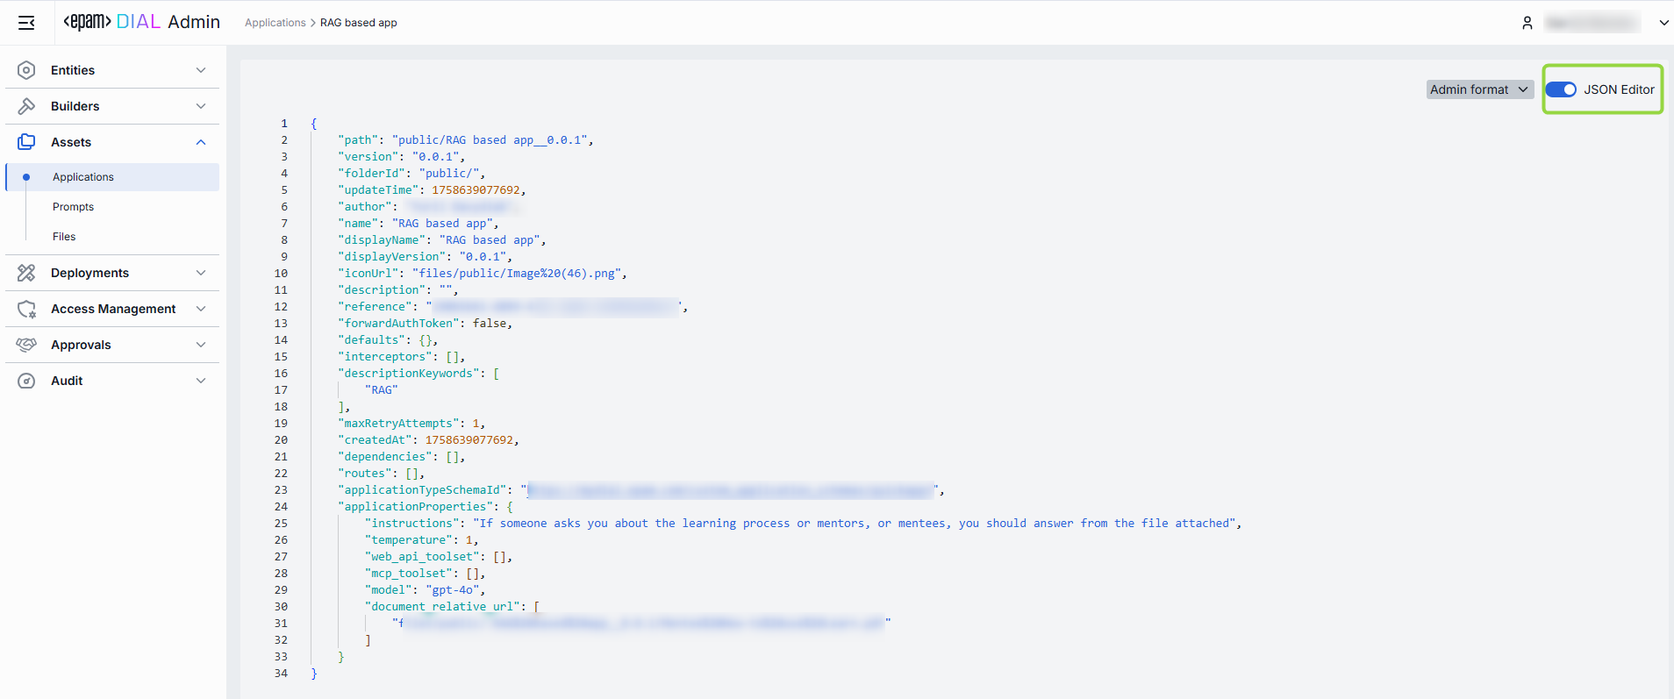
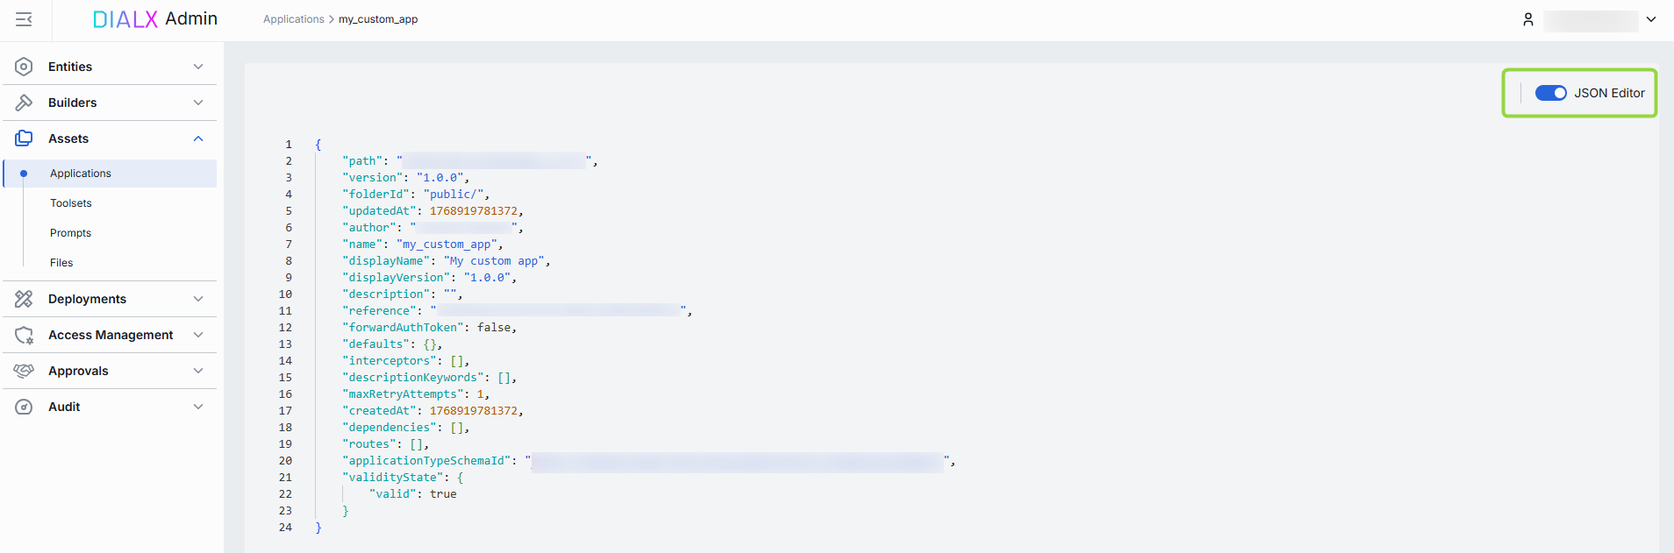
review json editor instructions

diff --git a/docs/tutorials/3.admin/assets-applications.md b/docs/tutorials/3.admin/assets-applications.md
@@ -18,12 +18,11 @@ Applications, when added via DIAL Core configuration files or published by users
 
 Objects in the [Public space](/docs/platform/3.core/2.access-control-intro.md) are arranged hierarchically, similar to a file system. In this part of the screen, you can see the hierarchical structure of folders in the Public space. 
 
-
-| Element | Description          |
-|------------------------|--------------------------------------------|
-| **Root folder**        | A root folder. Contains the sub-folders and applications. It is visible to all users. Applications when added via the DIAL Core configuration file, are automatically placed in the root folder.   |
-| **Sub-folders**        | Applications can be placed in a specific sub-folder for logical organization purposes.          |
-| **Actions**    | Hover over any folder to view a context menu icon with actions you can perform in relation to the selected folder.<br /> - **Rename**: Use to rename the selected folder.<br />- **Move to**: Use to select a target location in the hierarchy to move the selected folder.<br />- **Manage permissions**: Redirects to [Folder Storage](/docs/tutorials/3.admin/access-management-folders-storage.md) to manage access to the folder.<br />- **Delete**: Use to delete the folder with applications inside it.|
+| Element | Description |
+|---------|-------------|
+| **Root folder** | A root folder. Contains the sub-folders and applications. It is visible to all users. Applications when added via the DIAL Core configuration file, are automatically placed in the root folder. |
+| **Sub-folders** | Applications can be placed in a specific sub-folder for logical organization purposes. |
+| **Actions** | Hover over any folder to view a context menu icon with actions you can perform in relation to the selected folder.<br /> - **Rename**: Use to rename the selected folder.<br />- **Move to**: Use to select a target location in the hierarchy to move the selected folder.<br />- **Manage permissions**: Redirects to [Folder Storage](/docs/tutorials/3.admin/access-management-folders-storage.md) to manage access to the folder.<br />- **Delete**: Use to delete the folder with applications inside it.|
 
 ![ ](img/122.png)
 
@@ -31,13 +30,13 @@ Objects in the [Public space](/docs/platform/3.core/2.access-control-intro.md) a
 
 Click on any folder to display applications in the applications grid.
 
-| Column           | Definition                    |
-|------------------|----------------------------|
-| **Display Name** | Along with the version, it makes up the application’s unique key.      |
-| **Version**      | Version of the application.              |
-| **Author**       | The username or system ID associated with the user who created or last updated this application.     |
-| **Updated time** | The timestamp of the last modification of the application. Use to track changes.                     |
-| **Actions**      | Actions you can perform on the selected application: <br /> - **Open in new tab**: Opens a new tab with application's properties, features and parameters.  <br /> - **Move to another folder**: Use to select the target folder in the hierarchy to move the application.<br />- **Delete**: Use to delete the application. Alternatively you can use **Bulk Actions** in the header to remove multiple applications. |
+| Column | Description |
+|--------|-------------|
+| **Display Name** | Name of the application displayed on UI. |
+| **Version** | Version of the application. |
+| **Author** | Username or system ID associated with the user who created or last updated this application. |
+| **Updated time** | Timestamp of the last modification of the application. Use to track changes. |
+| **Actions** | Actions you can perform on the selected application: <br /> - **Open in new tab**: Opens a new tab with application's properties, features and parameters. <br /> - **Move to another folder**: Use to select the target folder in the hierarchy to move the application.<br />- **Delete**: Use to delete the application. Alternatively you can use **Bulk Actions** in the header to remove multiple applications. |
 
 ## Export
 
@@ -89,15 +88,15 @@ Follow these steps to add a new application:
 1. Select a folder where you want to add a new application and click **+ Create** to invoke the **Create Application** modal.
 2. Define application's parameters
 
-    | Field                    | Required    | Definition & Guidance|
-    |--------------------------|-------------|----------------------|
-    | **ID**                   | Yes         | A unique identifier under the `applications` section of DIAL Core’s [dynamic settings](https://github.com/epam/ai-dial-core?tab=readme-ov-file#dynamic-settings) (e.g. support-bot, data-cluster).   |
-    | **Display Name**         | Yes         | A user-friendly label (e.g. "Customer Support Bot") shown throughout the Admin UI.     |
-    | **Version**              | Yes         | Semantic identifier (e.g., 1.2.0) of an application's version.   |
-    | **Description**          | No          | A free-text summary describing the application (e.g. supported inputs, business purpose). |
-    | **Source Type**          | Yes         | Source type of application.<br />- **Endpoints**: Application with this source type is a standalone application. DIAL Core communicates with such application via the explicitly-provided chat completion endpoint.<br />- **Application runner**: Application runners can be seen as application factories, allowing users to create logical instances of apps with different configurations. Application runners are based on JSON schemas, which define structure, properties and endpoints for applications. In [Builders/Application Runners](/docs/tutorials/3.admin/builders-application-runners.md) you can see all the available runners and add new ones.|
-    | **Endpoint**             | Conditional | The application’s chat completion endpoint that will be used by DIAL Core. Required if Source Type is **Endpoints**.        |
-    | **Application runner**   | Conditional | Select one of the [available application runners](/docs/tutorials/3.admin/builders-application-runners.md). Required if Source Type is **Application runner**. |
+    | Field | Required | Description |
+    |-------|----------|-------------|
+    | **ID** | Yes | Unique identifier under the `applications` section of DIAL Core's [dynamic settings](https://github.com/epam/ai-dial-core?tab=readme-ov-file#dynamic-settings) (e.g. support-bot, data-cluster). |
+    | **Display Name** | Yes | Application label (e.g. "Customer Support Bot") shown throughout the Admin UI. |
+    | **Version** | Yes | Semantic identifier (e.g., 1.2.0) of an application's version. |
+    | **Description** | No | Free-text summary describing the application (e.g. supported inputs, business purpose). |
+    | **Source Type** | Yes | Source type of application.<br />- **Endpoints**: Application with this source type is a standalone application. DIAL Core communicates with such application via the explicitly-provided chat completion endpoint.<br />- **Application runner**: Application runners can be seen as application factories, allowing users to create logical instances of apps with different configurations. Application runners are based on JSON schemas, which define structure, properties and endpoints for applications. In [Builders/Application Runners](/docs/tutorials/3.admin/builders-application-runners.md) you can see all the available runners and add new ones.|
+    | **Endpoint** | Conditional | The application's chat completion endpoint that will be used by DIAL Core. Required if Source Type is **Endpoints**. |
+    | **Application runner** | Conditional | Select one of the [available application runners](/docs/tutorials/3.admin/builders-application-runners.md). Required if Source Type is **Application runner**. |
 
 3. Once all required fields are filled click **Create**. The dialog closes and the new [application configuration](#configuration-screen) screen is opened. This entry will appear immediately in the listing under the selected folder once created.
 
@@ -124,29 +123,29 @@ You can find the following action buttons in the configuration screen header:
 
 ##### Fields Description
 
-| Field    | Description |
-|----------|--------------------------|
-| **ID**      | A unique identifier of the application. |
-| **Author**  | The username or system ID associated with the user who created or last updated this application.      |
-| **Creation Time** | The timestamp of when the application was created.   |
-| **Updated Time** | Date and time when the app's configuration was last updated.             |
-| **Folder Storage**  | The path to the application's location in the hierarchy of folders. It allows you to move the application between folders.| 
+| Field | Description |
+|-------|-------------|
+| **ID** | Unique identifier of the application. |
+| **Author** | Username or system ID associated with the user who created or last updated this application. |
+| **Creation Time** | Timestamp of when the application was created. |
+| **Updated Time** | Date and time when the app's configuration was last updated. |
+| **Folder Storage** | Path to the application's location in the hierarchy of folders. It allows you to move the application between folders.|
 | **Status** | Current status of the application:<br />**Valid**: application configuration is compatible with the JSON schema or the related application runner.<br />Only valid entities will be materialized into the DIAL Core configuration.<br />**Invalid**: application configuration is incompatible with the JSON schema of the related application runner. |
-| **Display Name**  | The name of the application assigned by the author. It is read-only but includes a copy-to-clipboard button for easy reference.    |
-| **Description**   | A free-text summary describing the application (e.g. tooling, supported inputs/outputs, SLAs).  |
-| **Icon**  | A logo to visually distinguish the app on the UI. Maximum size: 512 MB. Supported types: .jpeg, .jpg, .jpe, .png, .gif, .apng, .webp, .avif, .svg, .svgz, .bmp, .ico. Up to 1 files.|
-| **Topics**  | Tags that you can assign to apps (e.g. "finance", "support"). Helps to assign categories for better navigation on UI.  |
-| **Folder Storage**  | The path to the application's location in the hierarchy of folders. It allows you to move the application between folders.| 
-| **Source Type**     | Source type of application.<br />- **Endpoints**: Application with this source type is a standalone application. DIAL Core communicates with such application via the explicitly-provided endpoints.<br />- **Application runner**: Application runners can be seen as application factories, allowing users to create logical instances of apps with different configurations. Application runners are based on JSON schemas, which define structure, properties and endpoints for applications. In [Builders/Application Runners](/docs/tutorials/3.admin/builders-application-runners.md) you can see all the available runners and add new ones.|
-| **Application runner**   | [Application Runner](/docs/tutorials/3.admin/builders-application-runners.md) the application is based upon. Enabled and is required if Source Type = Application runner is selected. |
-| **Completion endpoint** | The application’s chat completion endpoint that will be used by DIAL Core. Enabled and is required if Source Type = Endpoints is selected. |
+| **Display Name** | Name of the application assigned by the author. It is read-only but includes a copy-to-clipboard button for easy reference. |
+| **Description** | Free-text summary describing the application (e.g. tooling, supported inputs/outputs, SLAs). |
+| **Icon** | Logo to visually distinguish the app on the UI. Maximum size: 512 MB. Supported types: .jpeg, .jpg, .jpe, .png, .gif, .apng, .webp, .avif, .svg, .svgz, .bmp, .ico. Up to 1 files.|
+| **Topics** | Tags that you can assign to apps (e.g. "finance", "support"). Helps to assign categories for better navigation on UI. |
+| **Folder Storage** | Path to the application's location in the hierarchy of folders. It allows you to move the application between folders.|
+| **Source Type** | Source type of application.<br />- **Endpoints**: Application with this source type is a standalone application. DIAL Core communicates with such application via the explicitly-provided endpoints.<br />- **Application runner**: Application runners can be seen as application factories, allowing users to create logical instances of apps with different configurations. Application runners are based on JSON schemas, which define structure, properties and endpoints for applications. In [Builders/Application Runners](/docs/tutorials/3.admin/builders-application-runners.md) you can see all the available runners and add new ones.|
+| **Application runner** | [Application Runner](/docs/tutorials/3.admin/builders-application-runners.md) the application is based upon. Enabled and is required if Source Type = Application runner is selected. |
+| **Completion endpoint** | The application's chat completion endpoint that will be used by DIAL Core. Enabled and is required if Source Type = Endpoints is selected. |
 | **Editor URL** | URL of the application's custom builder UI. Application builder allows creating instances of apps using a [UI wizard](/docs/tutorials/0.user-guide.md#application-builder). Enabled if Source Type = Endpoints is selected. |
 | **Viewer URL** | URL of the application's custom UI. A custom UI, if enabled, will override the standard DIAL Chat UI. Enabled if Source Type = Endpoints is selected. |
-| **Attachments** | An option you can use to define the [attachment types](/docs/tutorials/1.developers/3.chat/0.chat-objects.md#attachments) (images, files) this app can have:  <br />**Available values**:<br /> **None** – attachments are not allowed.  <br /> **Use all** – unrestricted types. Optionally specify max number of attachments. <br /> **Custom** – enter specific [MIME types](https://developer.mozilla.org/en-US/docs/Web/HTTP/Basics_of_HTTP/MIME_types/Common_types). Optionally specify max number of attachments. |
-| **Attachments max number**  | Maximum number of input attachments. Enabled if attachment types are defined. |
+| **Attachments** | [Attachment types](/docs/tutorials/1.developers/3.chat/0.chat-objects.md#attachments) (images, files) this app can have: <br />**Available values**:<br /> **None** – attachments are not allowed. <br /> **Use all** – unrestricted types. Optionally specify max number of attachments. <br /> **Custom** – enter specific [MIME types](https://developer.mozilla.org/en-US/docs/Web/HTTP/Basics_of_HTTP/MIME_types/Common_types). Optionally specify max number of attachments. |
+| **Attachments max number** | Maximum number of input attachments. Enabled if attachment types are defined. |
 | **Defaults** | Default parameters for the application. Default parameters are applied if a request doesn't contain them in OpenAI chat/completions API call. |
-| **Forward auth token** | Select a downstream auth token to forward from the user’s session (for multi-tenant downstream). |
-| **Max retry attempts**  | Number of times DIAL Core will [retry](/docs/platform/3.core/5.load-balancer.md#fallbacks) a failed run (due to timeouts or 5xx errors). |
+| **Forward auth token** | Select a downstream auth token to forward from the user's session (for multi-tenant downstream). |
+| **Max retry attempts** | Number of times DIAL Core will [retry](/docs/platform/3.core/5.load-balancer.md#fallbacks) a failed run (due to timeouts or 5xx errors). |
 
 ### Features
 
@@ -160,31 +159,31 @@ Use these fields to apply optional service endpoints that extend the app’s run
 By providing URLs for rating, tokenization, prompt truncation, and dynamic configuration, the application can delegate cost/quota calculations, precise token counting, context-window management, and JSON-schema–driven settings to external services.
 Endpoints specified here override endpoints in [Application Runner](/docs/tutorials/3.admin/builders-application-runners.md#properties).
 
-| Field         | Description    |
-|------------------------------|-----------------------------------------------|
-| **Rate endpoint**            | A URL to call a custom rate-estimation API. Use this to compute cost or quota usage based on your own logic (e.g. grouping by tenant, complex billing rules).   |
-| **Tokenize endpoint**        | A URL to call a custom tokenization service. When you need precise, app-wide token counting (for mixed-model or multi-step prompts) that the model adapter can’t provide.   |
+| Field | Description |
+|-------|-------------|
+| **Rate endpoint** | A URL to call a custom rate-estimation API. Use this to compute cost or quota usage based on your own logic (e.g. grouping by tenant, complex billing rules). |
+| **Tokenize endpoint** | A URL to call a custom tokenization service. When you need precise, app-wide token counting (for mixed-model or multi-step prompts) that the model adapter can't provide. |
 | **Truncate prompt endpoint** | A URL to call your own prompt-truncation API. Handy if you implement advanced context-window management (e.g. dynamic summarization) before the actual app call. |
-| **Configuration endpoint**   | A URL to fetch JSON Schema describing settings of the DIAL application. DIAL Core exposes this endpoint to DIAL clients as `GET v1/deployments/<deployment name>/configuration`. DIAL client must provide a JSON value corresponding to the configuration JSON Schema in a chat completion request in the `custom_fields.configuration` field.  |
+| **Configuration endpoint** | A URL to fetch JSON Schema describing settings of the DIAL application. DIAL Core exposes this endpoint to DIAL clients as `GET v1/deployments/<deployment name>/configuration`. DIAL client must provide a JSON value corresponding to the configuration JSON Schema in a chat completion request in the `custom_fields.configuration` field. |
 
 #### Feature Flags (Toggles)
 
 Enable or disable per-request options that your application accepts from clients and forwards to the underlying models. **Toggle On/Off** any feature as needed.
 
-| Toggle         | What It Does            |
-|-------------------------------|-----------------------------------------------------------------------------|
-| **System prompt**             | Enables an initial "system" message injection. Useful for orchestrating multi-step agents where you need to enforce a global policy at the application level. |
-| **Tools**      | Enables `tools`/`functions` payloads in API calls. Switch on if your application makes external function calls (e.g. calendar lookup, database fetch).        |
-| **Seed**       | Enables the `seed` parameter for reproducible results. Great for testing or deterministic pipelines.  Disable to ensure randomized creativity. |
-| **URL Attachments**           | Enables URL references (images, docs) as attachments in API requests. Must be enabled if your workflow downloads or processes remote assets via URLs.         |
-| **Folder Attachments**        | Enables attachments of folders (batching multiple files).    |
+| Toggle | Description |
+|--------|-------------|
+| **System prompt** | Enables an initial "system" message injection. Useful for orchestrating multi-step agents where you need to enforce a global policy at the application level. |
+| **Tools** | Enables `tools`/`functions` payloads in API calls. Switch on if your application makes external function calls (e.g. calendar lookup, database fetch). |
+| **Seed** | Enables the `seed` parameter for reproducible results. Great for testing or deterministic pipelines. Disable to ensure randomized creativity. |
+| **URL Attachments** | Enables URL references (images, docs) as attachments in API requests. Must be enabled if your workflow downloads or processes remote assets via URLs. |
+| **Folder Attachments** | Enables attachments of folders (batching multiple files). |
 | **Accessible by request key** | Indicates whether the deployment is accessible using a [per-request API key](/docs/platform/3.core/3.per-request-keys.md). |
-| **Content parts**             | Indicates whether the deployment supports requests with content parts or not.  |
-| **Consent required**          | Indicates whether the application requires [user consent](https://dialx.ai/dial_api#tag/User-Consent) before use.     |
+| **Content parts** | Indicates whether the deployment supports requests with content parts or not. |
+| **Consent required** | Indicates whether the application requires [user consent](https://dialx.ai/dial_api#tag/User-Consent) before use. |
 
 ### JSON Editor
 
-**Advanced users with technical expertise** can work with the application properties in a JSON editor view mode. It is useful for advanced scenarios of bulk updates, copy/paste between environments, or tweaking settings not exposed in the form UI.
+**Advanced users with technical expertise** can work with the application properties in a JSON editor view mode. It is useful for advanced scenarios of bulk updates, copy/paste between environments, or tweaking settings not exposed on UI.
 
 > **TIP**: You can switch between UI and JSON only if there are no unsaved changes.
 

diff --git a/docs/tutorials/3.admin/entities-toolsets.md b/docs/tutorials/3.admin/entities-toolsets.md
@@ -195,20 +195,21 @@ Use Resource Rollback to restore the previous version of the selected activity. 
 
 ### JSON Editor
 
-**Advanced users with technical expertise** can work with the toolset properties in a JSON editor view mode. It is useful for advanced scenarios of bulk updates, copy/paste between environments, or tweaking settings not exposed in the form UI.
+**Advanced users with technical expertise** can work with the toolset properties in a JSON editor view mode. It is useful for advanced scenarios of bulk updates, copy/paste between environments, or tweaking settings not exposed on UI.
 
 > **TIP**: You can switch between UI and JSON only if there are no unsaved changes.
 
-You can also use the JSON editor to preview and edit deployment properties as they are defined in Admin service and DIAL Core formats. **Sync with core** indicator will inform you about the synchronization state when any changes are made.
+In JSON editor, you can use the view dropdown to select between Admin format and Core format. Note, that these formatting options are for your convenience only and do not render properties as they are defined in DIAL Core. After making changes, the **Sync with core** indicator on the main configuration screen will inform you about the synchronization state with DIAL Core.
 
-![ ](img/118.png)
+![ ](img/entities_tools_json.png)
 
-##### Switching to the JSON Editor
+##### Working with JSON Editor
 
 1. Navigate to **Entities → Toolsets**, then select the toolset you want to edit.
 2. Click the **JSON Editor** toggle (top-right). The UI reveals the raw JSON.
-3. Chose between the Admin and Core format to see the configuration details as stored in DIAL Admin or DIAL Core. **Note**: click **Sync with core** in the **Properties** tab to compare them side-by-side in a read-only JSON Viewer.
+3. Chose between the Admin and Core format to see and work with properties in the necessary format. **Note**: Core format view mode does not render the actual configuration stored in DIAL Core but the configuration in Admin service displayed in the DIAL Core format.
 4. Make changes and click **Save** to apply them.
+5. After making changes, the **Sync with core** indicator on the main configuration screen will inform you about the synchronization state with DIAL Core.
 
 ### Delete
 

diff --git a/docs/tutorials/3.admin/entities-applications.md b/docs/tutorials/3.admin/entities-applications.md
@@ -472,18 +472,21 @@ Use Resource Rollback to restore the previous version of the selected activity. 
 
 ### JSON Editor
 
-**Advanced users with technical expertise** can work with the application properties in a JSON editor view mode. It is useful for advanced scenarios of bulk updates, copy/paste between environments, or tweaking settings not exposed in the form UI.
+**Advanced users with technical expertise** can work with the application properties in a JSON editor view mode. It is useful for advanced scenarios of bulk updates, copy/paste between environments, or tweaking settings not exposed on UI.
 
 > **TIP**: You can switch between UI and JSON only if there are no unsaved changes.
 
-You can also use the JSON editor to preview and edit deployment properties as they are defined in Admin service and DIAL Core formats. **Sync with core** indicator will inform you about the synchronization state when any changes are made.
+In JSON editor, you can use the view dropdown to select between Admin format and Core format. Note, that these formatting options are for your convenience only and do not render properties as they are defined in DIAL Core. After making changes, the **Sync with core** indicator on the main configuration screen will inform you about the synchronization state with DIAL Core.
 
 ![](img/entities_apps_json_editor.png)
 
-##### Switching to the JSON Editor
+##### Working with JSON Editor
 
 1. Navigate to **Entities → Applications**, then select the application you want to edit.
 2. Click the **JSON Editor** toggle (top-right). The UI reveals the raw JSON.
+3. Chose between the Admin and Core format to see and work with properties in the necessary format. **Note**: Core format view mode does not render the actual configuration stored in DIAL Core but the configuration in Admin service displayed in the DIAL Core format.
+4. Make changes and click **Save** to apply them.
+5. After making changes, the **Sync with core** indicator on the main configuration screen will inform you about the synchronization state with DIAL Core.
 
 ### Delete
 

diff --git a/docs/tutorials/3.admin/entities-models.md b/docs/tutorials/3.admin/entities-models.md
@@ -483,18 +483,21 @@ Use Resource Rollback to restore the previous version of the selected activity. 
 
 ### JSON Editor
 
-**Advanced users with technical expertise** can work with the model properties in a JSON editor view mode. It is useful for advanced scenarios of bulk updates, copy/paste between environments, or tweaking settings not exposed in the form UI.
+**Advanced users with technical expertise** can work with the model properties in a JSON editor view mode. It is useful for advanced scenarios of bulk updates, copy/paste between environments, or tweaking settings not exposed on UI.
 
 > **TIP**: You can switch between UI and JSON only if there are no unsaved changes.
 
-You can also use the JSON editor to preview and edit deployment properties as they are defined in Admin service and DIAL Core formats. **Sync with core** indicator will inform you about the synchronization state when any changes are made.
+In JSON editor, you can use the view dropdown to select between Admin format and Core format. Note, that these formatting options are for your convenience only and do not render properties as they are defined in DIAL Core. After making changes, the **Sync with core** indicator on the main configuration screen will inform you about the synchronization state with DIAL Core.
 
 ![ ](img/entities_models_properties_json.png)
 
-##### Switching to the JSON Editor
+##### Working with JSON Editor
 
 1. Navigate to **Entities → Models**, then select the model you want to edit.
 2. Click the **JSON Editor** toggle (top-right). The UI reveals the raw JSON.
+3. Chose between the Admin and Core format to see and work with properties in the necessary format. **Note**: Core format view mode does not render the actual configuration stored in DIAL Core but the configuration in Admin service displayed in the DIAL Core format.
+4. Make changes and click **Save** to apply them.
+5. After making changes, the **Sync with core** indicator on the main configuration screen will inform you about the synchronization state with DIAL Core.
 
 ### Delete
 

diff --git a/docs/tutorials/3.admin/builders-application-runners.md b/docs/tutorials/3.admin/builders-application-runners.md
@@ -205,13 +205,18 @@ The Activities section provides detailed visibility into all changes made to the
 
 ### JSON Editor
 
-**Advanced users with technical expertise** can work with the application runner properties in a JSON editor view mode. It is useful for advanced scenarios of bulk updates, copy/paste between environments, or tweaking settings not exposed in the form UI.
+**Advanced users with technical expertise** can work with the application runner properties in a JSON editor view mode. It is useful for advanced scenarios of bulk updates, copy/paste between environments, or tweaking settings not exposed on UI.
 
 > **TIP**: You can switch between UI and JSON only if there are no unsaved changes.
 
-![](img/70.png)
+In JSON editor, you can use the view dropdown to select between Admin format and Core format. Note, that these formatting options are for your convenience only and do not render properties as they are defined in DIAL Core. After making changes, the **Sync with core** indicator on the main configuration screen will inform you about the synchronization state with DIAL Core.
 
-##### Switching to the JSON Editor
+![](img/app_runner_json.png)
+
+##### Working with JSON Editor
 
 1. Navigate to **Builders → Application Runners**, then select the application runner you want to edit.
 2. Click the **JSON Editor** toggle (top-right). The UI reveals the raw JSON.
+3. Chose between the Admin and Core format to see and work with properties in the necessary format. **Note**: Core format view mode does not render the actual configuration stored in DIAL Core but the configuration in Admin service displayed in the DIAL Core format.
+4. Make changes and click **Save** to apply them.
+5. After making changes, the **Sync with core** indicator on the main configuration screen will inform you about the synchronization state with DIAL Core.

diff --git a/docs/tutorials/3.admin/access-management-roles.md b/docs/tutorials/3.admin/access-management-roles.md
@@ -174,16 +174,21 @@ To open Activity Details, click on the three-dot menu (⋮) at the end of a row 
 
 ### JSON Editor
 
-**Advanced users with technical expertise** can work with the roles properties in a JSON editor view mode. It is useful for advanced scenarios of bulk updates, copy/paste between environments, or tweaking settings not exposed in the form UI.
+**Advanced users with technical expertise** can work with the roles properties in a JSON editor view mode. It is useful for advanced scenarios of bulk updates, copy/paste between environments, or tweaking settings not exposed on UI.
 
 > **TIP**: You can switch between UI and JSON only if there are no unsaved changes.
 
-![](img/74.png)
+![](img/roles_json.png)
 
-##### Switching to the JSON Editor
+In JSON editor, you can use the view dropdown to select between Admin format and Core format. Note, that these formatting options are for your convenience only and do not render properties as they are defined in DIAL Core. After making changes, the **Sync with core** indicator on the main configuration screen will inform you about the synchronization state with DIAL Core.
+
+##### Working with JSON Editor
 
 1. Navigate to **Access Management → Roles**, then select the role you want to edit.
 2. Click the **JSON Editor** toggle (top-right). The UI reveals the raw JSON.
+3. Chose between the Admin and Core format to see and work with properties in the necessary format. **Note**: Core format view mode does not render the actual configuration stored in DIAL Core but the configuration in Admin service displayed in the DIAL Core format.
+4. Make changes and click **Save** to apply them.
+5. After making changes, the **Sync with core** indicator on the main configuration screen will inform you about the synchronization state with DIAL Core.
 
 ## Delete
 

diff --git a/docs/tutorials/3.admin/access-management-keys.md b/docs/tutorials/3.admin/access-management-keys.md
@@ -123,16 +123,21 @@ Use to stop associating API keys with roles.
 
 ### JSON Editor
 
-**Advanced users with technical expertise** can work with the keys properties in a JSON editor view mode. It is useful for advanced scenarios of bulk updates, copy/paste between environments, or tweaking settings not exposed in the form UI.
+**Advanced users with technical expertise** can work with the keys properties in a JSON editor view mode. It is useful for advanced scenarios of bulk updates, copy/paste between environments, or tweaking settings not exposed on UI.
 
 > **TIP**: You can switch between UI and JSON only if there are no unsaved changes.
 
-![](img/75.png)
+![](img/keys_json.png)
 
-##### Switching to the JSON Editor
+In JSON editor, you can use the view dropdown to select between Admin format and Core format. Note, that these formatting options are for your convenience only and do not render properties as they are defined in DIAL Core. After making changes, the **Sync with core** indicator on the main configuration screen will inform you about the synchronization state with DIAL Core.
+
+##### Working with JSON Editor
 
 1. Navigate to **Access Management → Keys**, then select the key you want to edit.
 2. Click the **JSON Editor** toggle (top-right). The UI reveals the raw JSON.
+3. Chose between the Admin and Core format to see and work with properties in the necessary format. **Note**: Core format view mode does not render the actual configuration stored in DIAL Core but the configuration in Admin service displayed in the DIAL Core format.
+4. Make changes and click **Save** to apply them.
+5. After making changes, the **Sync with core** indicator on the main configuration screen will inform you about the synchronization state with DIAL Core.
 
 ## Delete
 

diff --git a/docs/tutorials/3.admin/entities-interceptors.md b/docs/tutorials/3.admin/entities-interceptors.md
@@ -161,16 +161,19 @@ To open Activity Details, click on the three-dot menu (⋮) at the end of a row 
 
 ### JSON Editor
 
-**Advanced users with technical expertise** can work with the interceptor properties in a JSON editor view mode. It is useful for advanced scenarios of bulk updates, copy/paste between environments, or tweaking settings not exposed in the form UI.
+**Advanced users with technical expertise** can work with the interceptor properties in a JSON editor view mode. It is useful for advanced scenarios of bulk updates, copy/paste between environments, or tweaking settings not exposed on UI.
 
 > **TIP**: You can switch between UI and JSON only if there are no unsaved changes.
 
-![](img/71.png)
+![](img/entities_interceptors_json.png)
 
-##### Switching to the JSON Editor
+##### Working with JSON Editor
 
 1. Navigate to **Entities → Interceptors**, then select the interceptor you want to edit.
 2. Click the **JSON Editor** toggle (top-right). The UI reveals the raw JSON.
+3. Chose between the Admin and Core format to see and work with properties in the necessary format. **Note**: Core format view mode does not render the actual configuration stored in DIAL Core but the configuration in Admin service displayed in the DIAL Core format.
+4. Make changes and click **Save** to apply them.
+5. After making changes, the **Sync with core** indicator on the main configuration screen will inform you about the synchronization state with DIAL Core.
 
 ### Delete
 

diff --git a/docs/tutorials/3.admin/entities-routes.md b/docs/tutorials/3.admin/entities-routes.md
@@ -211,12 +211,17 @@ Use Resource Rollback to restore the previous version of the selected activity. 
 
 > **TIP**: You can switch between UI and JSON only if there are no unsaved changes.
 
-![](img/72.png)
+In JSON editor, you can use the view dropdown to select between Admin format and Core format. Note, that these formatting options are for your convenience only and do not render properties as they are defined in DIAL Core. After making changes, the **Sync with core** indicator on the main configuration screen will inform you about the synchronization state with DIAL Core.
 
-##### Switching to the JSON Editor
+![](img/entities_routes_json.png)
 
-1. Navigate to **Entities → Routes**, then select the Route you want to edit.
+##### Working with JSON Editor
+
+1. Navigate to **Entities → Routes**, then select the route you want to edit.
 2. Click the **JSON Editor** toggle (top-right). The UI reveals the raw JSON.
+3. Chose between the Admin and Core format to see and work with properties in the necessary format. **Note**: Core format view mode does not render the actual configuration stored in DIAL Core but the configuration in Admin service displayed in the DIAL Core format.
+4. Make changes and click **Save** to apply them.
+5. After making changes, the **Sync with core** indicator on the main configuration screen will inform you about the synchronization state with DIAL Core.
 
 ### Delete
 

diff --git a/docs/tutorials/3.admin/assets-toolsets.md b/docs/tutorials/3.admin/assets-toolsets.md
@@ -153,16 +153,16 @@ You can remove a tool only if **Use all available tools** toggle is **Off**.
 
 **Advanced users with technical expertise** can work with the toolset properties in a JSON editor view mode.
 
-Use the **JSON Editor** toggle to switch between the form-based UI and raw JSON view of the toolset’s configuration. It is useful for advanced scenarios of bulk updates, copy/paste between environments, or tweaking settings not exposed in the form UI—you can switch to the **JSON Editor** on any toolset configuration page.
+Use the **JSON Editor** toggle to switch between the form-based UI and raw JSON view of the toolset’s configuration. It is useful for advanced scenarios of bulk updates, copy/paste between environments, or tweaking settings not exposed on UI.
 
-![ ](img/118.png)
+> **TIP**: You can switch between UI and JSON only if there are no unsaved changes.
+
+![ ](img/assets_toolsets_json.png)
 
 ##### Switching to the JSON Editor
 
 1. Navigate to **Assets → Toolsets**, then select the toolset you want to edit.
 2. Click the **JSON Editor** toggle (top-right). The UI reveals the raw JSON.
-
-> **TIP**: You can switch between UI and JSON only if there are no unsaved changes.
 
 ## Delete
 

diff --git a/docs/tutorials/3.admin/assets-prompts.md b/docs/tutorials/3.admin/assets-prompts.md
@@ -135,11 +135,11 @@ Use **compare versions** to compare the prompt's text across its versions. You c
 
 ### JSON Editor
 
-**Advanced users with technical expertise** can work with the prompt properties in a JSON editor view mode. It is useful for advanced scenarios of bulk updates, copy/paste between environments, or tweaking settings not exposed in the form UI.
+**Advanced users with technical expertise** can work with the prompt properties in a JSON editor view mode. It is useful for advanced scenarios of bulk updates, copy/paste between environments, or tweaking settings not exposed on UI.
 
 > **TIP**: You can switch between UI and JSON only if there are no unsaved changes.
 
-![](img/73.png)
+![](img/assets_prompts_json.png)
 
 ##### Switching to the JSON Editor
 

diff --git a/docs/tutorials/3.admin/deployments-interceptors.md b/docs/tutorials/3.admin/deployments-interceptors.md
@@ -103,7 +103,7 @@ In the Properties tab, you can view and edit the selected interceptor container 
 
 ![](img/interceptor_container_properties.png)
 
-**Advanced users with technical expertise** can work with the container properties in a JSON editor view mode:
+**Advanced users with technical expertise** can work with the container properties in a JSON editor view mode. It is useful for advanced scenarios of bulk updates, copy/paste between environments, or tweaking settings not exposed on UI.
 
 ![ ](img/interceptor_container_json_editor.png)
 
